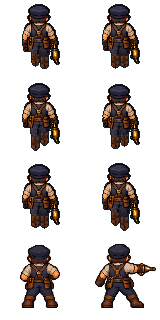
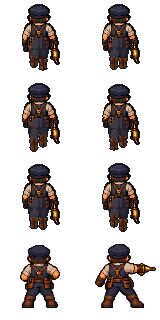
Register Orrin's legs beneath the native waist in every view

diff --git a/src/art/orrin-actor.ts b/src/art/orrin-actor.ts
@@ -6,9 +6,21 @@ import { armToGrip, referenceRig, type ReferencePose, type WeaponPose } from './
 import { ORRIN_PROPORTIONS, type RigProportions } from './rig-proportions';
 import { REFERENCE_FRAMES } from './walk-cycle';
 
+// Native waist registration, in the actor's anatomical coordinates.
+const LOWER_BODY_ROOT={x:-1.5,y:-4};
+
 /** Orrin carries his native downward-pointing tool, with only a small gait swing. */
 export function orrinPose(phase:number,config:Readonly<RigProportions>=ORRIN_PROPORTIONS):ReferencePose {
   const pose=referenceRig(phase,'lance',config);
+  // The native overalls hang behind the chest and slightly toward anatomical
+  // left. Move the skeleton, not just its painted silhouette, so contacts and
+  // workshop joint/floor guides retain the same registration.
+  for(const side of ['left','right'] as const){
+    const leg=pose[side];
+    for(const point of [leg.hip,leg.knee,leg.ankle,leg.foot.origin,leg.foot.heel,leg.foot.toe]){
+      point.x+=LOWER_BODY_ROOT.x;point.y+=LOWER_BODY_ROOT.y;
+    }
+  }
   const shoulder=pose.arms.right.shoulder,grip={...pose.arms.right.grip,z:pose.arms.right.grip.z-3};
   pose.arms.right=armToGrip(shoulder,grip,config);pose.weapon!.grip=pose.arms.right.grip;
   pose.weapon!.pitch=2*Math.sin(pose.phase*2*Math.PI)*Math.PI/180;
@@ -94,12 +106,41 @@ function arms(pose:ReferencePose,source:PixelTexture,direction:ActorDirection):S
 }
 
 /** Overalls fill the volume behind moving sleeves and join the continuous seat. */
-function body(pose:ReferencePose,texture:PixelTexture,direction:ActorDirection):SpriteLayer {
+function body(pose:ReferencePose,texture:PixelTexture,trousers:PixelTexture,direction:ActorDirection):SpriteLayer {
   const rings=[[3,8.5,4.5],[7,10,5.6],[13,10.1,5.4],[17,8.8,4.5]] as const;
-  return surface('torso',rings.map(([z,width,depth],row)=>Array.from({length:ROUND_SIDES},(_,i)=>{
+  const layer=surface('torso',rings.map(([z,width,depth],row)=>Array.from({length:ROUND_SIDES},(_,i)=>{
     const angle=i/ROUND_SIDES*Math.PI*2,c=Math.cos(angle),s=Math.sin(angle);
-    return {point:{x:c*width,y:s*depth,z:pose.hipHeight+z},u:(acrossView(direction,c,s)+1)/2*texture.width,v:(1-row/(rings.length-1))*texture.height};
+    return {point:{x:c*width+LOWER_BODY_ROOT.x*Math.max(0,1-(z-3)/14),y:s*depth+LOWER_BODY_ROOT.y*Math.max(0,1-(z-3)/14),z:pose.hipHeight+z},u:(acrossView(direction,c,s)+1)/2*texture.width,v:(1-row/(rings.length-1))*texture.height};
   })),0xffffff,texture);
+  // The lower torso overlaps the seat in the depth buffer. It must use the
+  // same cloth field, rather than stretching the dark bib into a false hole.
+  const cloth=overallFabric({...layer,faces:layer.faces.map(face=>({...face}))},pose,trousers,direction);
+  layer.faces.forEach((face,i)=>{
+    if(face.points.some(index=>layer.vertices[index].z<=pose.hipHeight+7)){
+      face.texture=trousers;face.uv=cloth.faces[i].uv;
+    }
+  });
+  return layer;
+}
+
+/** Match the cloth field to Orrin's own seat, including the narrower profile
+ * depth. The same projected field covers both thighs and their overlapping seat. */
+function overallFabric(layer:SpriteLayer,pose:ReferencePose,texture:PixelTexture,direction:ActorDirection):SpriteLayer {
+  const centre=project({x:LOWER_BODY_ROOT.x,y:LOWER_BODY_ROOT.y,z:pose.hipHeight},direction);
+  const profile=direction==='left'||direction==='right';
+  const width=profile?12*pose.proportions.legWidth/1.15:2*(pose.proportions.hipHalfWidth+4.5*pose.proportions.legWidth);
+  const top=centre.y-5,height=pose.proportions.legLength+6;
+  for(const face of layer.faces)face.uv=face.points.map(i=>{
+    const p=project(layer.vertices[i],direction);
+    return {u:(p.x-centre.x+width/2)/width*texture.width,v:(p.y-top)/height*texture.height};
+  });
+  return layer;
+}
+
+function overallSeat(pose:ReferencePose,texture:PixelTexture,direction:ActorDirection):SpriteLayer {
+  const layer=pelvis(pose,texture,direction);
+  for(const p of layer.vertices){p.x+=LOWER_BODY_ROOT.x;p.y+=LOWER_BODY_ROOT.y;}
+  return overallFabric(layer,pose,texture,direction);
 }
 
 /** One native-scale leather field spans the calf and shoe. Projected UVs keep
@@ -152,16 +193,23 @@ export function orrinLayers(pose:ReferencePose,direction:ActorDirection,textures
       ||direction==='left'&&y>=39&&y<46&&x<36
       ||direction==='left'&&y>=46&&x<35
       ||direction==='right'&&y>=42&&x>=47;
-    if(oldArm)torso.pixels[at+3]=0;
+    const [r,g,b]=source.pixels.subarray(at,at+3);
+    // The idle's trouser/crotch pixels must not sit above a second moving seat.
+    // Keep the leather belt and pouches while removing the old navy lower body.
+    const oldTrousers=y>=43&&b>r*.85&&b>g;
+    if(oldArm||oldTrousers)torso.pixels[at+3]=0;
   }
-  const trousers=patch(source,33,43,15,14,(r,g,b)=>r<g*1.4&&b>r*.85);
+  const trouserRegions:Record<ActorDirection,readonly[number,number,number,number]>={
+    front:[33,43,18,14],left:[34,48,16,9],right:[28,46,13,12],back:[30,43,17,13],
+  };
+  const trousers=patch(source,...trouserRegions[direction],(r,g,b)=>r<g*1.4&&b>r*.85&&g>20);
   const bootRegions:Record<ActorDirection,readonly[number,number,number,number]>={front:[41,56,7,11],left:[42,56,8,11],right:[34,56,8,11],back:[35,57,8,10]};
   const boot=patch(source,...bootRegions[direction],(r,g,b)=>r>g*1.15&&g>b*1.1&&r>18);
   const bib=patch(source,35,30,10,10,(r,g,b)=>r<g*1.4&&b>r*.85);
-  const layers:SpriteLayer[]=[body(pose,bib,direction),pelvis(pose,trousers,direction)];
+  const layers:SpriteLayer[]=[body(pose,bib,trousers,direction),overallSeat(pose,trousers,direction)];
   for(const side of ['left','right'] as const){
     const leg=pose[side],{legWidth}=pose.proportions;
-    layers.push(trouserLeg(side,pose,trousers,direction),
+    layers.push(overallFabric(trouserLeg(side,pose,trousers,direction),pose,trousers,direction),
       bootFabric(limb(`${side}-shin`,leg.knee,leg.ankle,[3.2,2.8],[2.8,2.4],boot,direction,legWidth),pose,side,boot,direction),
       bootFabric(shoe(side,leg.foot,boot,direction,pose.proportions.footScale,legWidth*1.22),pose,side,boot,direction));
   }

diff --git a/tests/e2e/animation-workshop.spec.ts b/tests/e2e/animation-workshop.spec.ts
@@ -2,6 +2,8 @@ import { NELL_PROPORTIONS, ORRIN_PROPORTIONS } from '../../src/art/rig-proportio
 // Browser plugin not available; exercise the native review through repository Playwright.
 import { expect, test, type Page } from '@playwright/test';
 import { readFile } from 'node:fs/promises';
+import { project } from '../../src/art/actor-space';
+import { LEG_COLORS } from '../../src/art/walk-cycle';
 import { renderLayers } from '../../src/art/layered-sprite';
 import { referenceRigFrame, type ReferenceWeapon } from '../../src/art/reference-rig';
 import { referenceLayers, REFERENCE_ARM_LAYERS, REFERENCE_LAYERS } from '../../src/dev/reference-actor';
@@ -119,6 +121,14 @@ for(const [device,viewport,dpr] of [['desktop',{width:1280,height:800},1.25],['p
       expect(orrinData.skin).toBe('orrin');expect(orrinData.cycleDistance).toBe(ORRIN_PROPORTIONS.strideDistance);expect(orrinData.weapon).toBe('lance');
       expect(orrinData.frames[0].pose.weapon.grip).toEqual(orrinData.frames[0].pose.arms.right.grip);
       await review.getByRole('button',{name:'Solo Right Weapon',exact:true}).click();
+      const contacts=(['left','right'] as const).map(side=>{
+        const foot=orrinData.frames[0].pose[side].foot,point=project(foot.contact==='heel'?foot.heel:foot.toe,'back'),rgb=LEG_COLORS[side];
+        return {x:Math.round(point.x)+120,y:Math.round(point.y)+22,rgb:[rgb>>16&255,rgb>>8&255,rgb&255]};
+      });
+      await expect.poll(()=>page.locator('#reference-floor').evaluate((element,contacts)=>{
+        const ctx=(element as HTMLCanvasElement).getContext('2d')!;
+        return contacts.every(({x,y,rgb})=>{const actual=ctx.getImageData(x,y,1,1).data;return rgb.every((value,i)=>value===actual[i]);});
+      },contacts)).toBe(true);
       const lanceEvent=page.waitForEvent('download');await review.getByRole('button',{name:'Export six frames PNG',exact:true}).click();expect((await lanceEvent).suggestedFilename()).toBe('orrin-back-right-weapon-walk.png');
       await review.getByRole('button',{name:'Show all layers',exact:true}).click();
       await review.getByRole('group',{name:'Reference facing',exact:true}).getByRole('button',{name:'Right',exact:true}).click();await nativeHero(page,'orrin',0,'right');

diff --git a/src/dev/animation-workshop.ts b/src/dev/animation-workshop.ts
@@ -150,12 +150,13 @@ export class AnimationWorkshop {
     const tick=this.currentTick(),frame=frameOf(tick),pose=this.pose(frame),stride=this.proportions.strideDistance,travel=tick/REFERENCE_FRAMES*stride;
     this.paintedTick=tick;const detail=this.host.querySelector<HTMLCanvasElement>('#reference-detail')!.getContext('2d')!,floor=this.host.querySelector<HTMLCanvasElement>('#reference-floor')!.getContext('2d')!,strip=this.host.querySelector<HTMLCanvasElement>('#reference-strip')!.getContext('2d')!;
     for(const ctx of [detail,floor,strip])this.backdrop(ctx);
+    const root={x:(pose.left.hip.x+pose.right.hip.x)/2,y:(pose.left.hip.y+pose.right.hip.y)/2};
     // Draw the floor in world coordinates relative to a camera following the root.
     for(let n=Math.floor(travel/(stride/2))-6;n<=Math.floor(travel/(stride/2))+6;n++){
-      const y=n*stride/2+stride*.3-travel,left=n%2===0,c=left?LEG_COLORS.left:LEG_COLORS.right;
-      const a=project({x:-28,y,z:0},this.direction),b=project({x:28,y,z:0},this.direction);
+      const y=root.y+n*stride/2+stride*.3-travel,left=n%2===0,c=left?LEG_COLORS.left:LEG_COLORS.right;
+      const a=project({x:root.x-28,y,z:0},this.direction),b=project({x:root.x+28,y,z:0},this.direction);
       line(floor,a.x+120,a.y+22,b.x+120,b.y+22,'#35535a');
-      const heel=project({x:(left?-1:1)*this.proportions.hipHalfWidth,y:y+FOOT_HEEL*this.proportions.footScale,z:0},this.direction),toe=project({x:(left?-1:1)*this.proportions.hipHalfWidth,y:y+FOOT_TOE*this.proportions.footScale,z:0},this.direction);
+      const heel=project({x:root.x+(left?-1:1)*this.proportions.hipHalfWidth,y:y+FOOT_HEEL*this.proportions.footScale,z:0},this.direction),toe=project({x:root.x+(left?-1:1)*this.proportions.hipHalfWidth,y:y+FOOT_TOE*this.proportions.footScale,z:0},this.direction);
       line(floor,heel.x+120,heel.y+22,toe.x+120,toe.y+22,color(c));
       for(const mark of [heel,toe]){floor.fillStyle=color(c);floor.fillRect(Math.round(mark.x)+119,Math.round(mark.y)+22,3,1);}
     }

diff --git a/AGENTS.md b/AGENTS.md
@@ -36,7 +36,7 @@ Normal CI runs rule/content tests, the production build and the small `@ci` brow
 
 All five playable characters have front/left/right/back actors in `public/art/`, registered by `src/content/actors.ts`. Keep native 80 x 80 dimensions and the shared ground anchor at (40, 68). Use the same character identity and costume for their 128 x 128 portraits. The Vite-only Sprites workshop (`?dev=sprites`) reviews this art without writing saves or builds; keep review code out of production. Artwork prompt briefs and export details live in `assets/characters/prompts.md`.
 
-Nell and Orrin have six-frame walk cycles and two attack poses in `public/art/animation/`, with eight native 80 x 80 frames per small directional page. Keep their idle actors and portraits intact. Nell's walk and attacks are baked from the accepted layered reference, using native face/costume skins and 9-pixel leg bones; run `node scripts/export-nell-animation.mjs` to reproduce its four small pages and canonical 80 x 80 skins. Animation offers a Nell skin with the same editable layers; the model/textures stay dev-only. Keep its prepared RGB pixels unchanged and binary alpha consistent between browser and exporter. Orrin's walk is baked from his own stocky skinned rig with 9.5-pixel leg bones; `node scripts/export-orrin-animation.mjs` regenerates it while preserving his existing attack row. Both characters share the dev-only native material/shape helpers in `src/art/actor-skin.ts`; keep Nell's approved pixels unchanged when adjusting Orrin. Orrin's sleeves, bare forearms and gloves use separately registered native cutouts for both arms in every view; remove the same source spans from the idle torso, keep the relaxed binding at resting hip height, and do not substitute a duplicate near arm for an occluded far arm. His calf and shoe share a continuous leather field so brass highlights do not repeat around the mesh. Nell's attack wind-up/contact use the same costume geometry, two planted flat feet, rigid arms and registered right-hand lantern; regenerate all eight frames without loading the previous page. Preserve the accepted six walk poses when changing attacks. The shared frame player serves exploration, followers, cutscenes and tactical paths; keep gait tied to distance traveled and preserve it through cells and turns. Nell advances 24 pixels per cycle; Orrin advances 28. Never mirror profiles or rescale a frame at runtime. The lantern and steam lance stay in the anatomical right hand throughout all six steps: viewer left in front, viewer right in back, far arm in left profile and near arm in right profile. Attacks show wind-up/contact/recovery, with damage visuals and player sounds at contact. Battle restarts and forced outcomes must cancel old presentation callbacks. Capture retaliation before round-end flag resets. Sprites offers all six walk phases, playback, pause and frame stepping; review remains dev-only. See `assets/characters/animation.md` for the source manifest and authoring recipe.
+Nell and Orrin have six-frame walk cycles and two attack poses in `public/art/animation/`, with eight native 80 x 80 frames per small directional page. Keep their idle actors and portraits intact. Nell's walk and attacks are baked from the accepted layered reference, using native face/costume skins and 9-pixel leg bones; run `node scripts/export-nell-animation.mjs` to reproduce its four small pages and canonical 80 x 80 skins. Animation offers a Nell skin with the same editable layers; the model/textures stay dev-only. Keep its prepared RGB pixels unchanged and binary alpha consistent between browser and exporter. Orrin's walk is baked from his own stocky skinned rig with 9.5-pixel leg bones; `node scripts/export-orrin-animation.mjs` regenerates it while preserving his existing attack row. Both characters share the dev-only native material/shape helpers in `src/art/actor-skin.ts`; keep Nell's approved pixels unchanged when adjusting Orrin. Orrin's sleeves, bare forearms and gloves use separately registered native cutouts for both arms in every view; remove the same source spans from the idle torso, keep the relaxed binding at resting hip height, and do not substitute a duplicate near arm for an occluded far arm. His calf and shoe share a continuous leather field so brass highlights do not repeat around the mesh. Register Orrin's lower skeleton at anatomical (-1.5, -4); translate the hips, knees, ankles and foot landmarks together and derive workshop floor marks from the actual hip centre. Lower torso, seat and thighs share per-view trouser fields. Remove old idle trouser/crotch pixels from the torso and keep the dark bib material above the belt. Nell's attack wind-up/contact use the same costume geometry, two planted flat feet, rigid arms and registered right-hand lantern; regenerate all eight frames without loading the previous page. Preserve the accepted six walk poses when changing attacks. The shared frame player serves exploration, followers, cutscenes and tactical paths; keep gait tied to distance traveled and preserve it through cells and turns. Nell advances 24 pixels per cycle; Orrin advances 28. Never mirror profiles or rescale a frame at runtime. The lantern and steam lance stay in the anatomical right hand throughout all six steps: viewer left in front, viewer right in back, far arm in left profile and near arm in right profile. Attacks show wind-up/contact/recovery, with damage visuals and player sounds at contact. Battle restarts and forced outcomes must cancel old presentation callbacks. Capture retaliation before round-end flag resets. Sprites offers all six walk phases, playback, pause and frame stepping; review remains dev-only. See `assets/characters/animation.md` for the source manifest and authoring recipe.
 
 Chapter One uses real 24 x 24 tiles, with editable Tiled JSON under `src/content/chapter-one/maps/` and small shared native tile pages. Read `docs/tile-maps.md` before changing its layouts. Tile properties drive collision; map object layers own interactions, named arrivals and initial scene casts. Use story-flag layers for scenery changes. Keep the four tactical floors clear of scenery and preserve all map/interaction/checkpoint IDs. Each map's `safeArrival` supports restoring valid current-format saves whose cells a layout edit covers or crops: use the nearest connected floor and preserve all progress/resources. Do not restore its removed wholesale backgrounds. Export large authoring sheets into real small image tiles/pages before any upload or commit: Chapter One pages are lossless PNG/WebP at most 192 × 192 pixels and 128 KB each; other changed raster images must be at most 128 KB. Never upload a large source sheet or base64 fragments of it. Run `npm run check:art-upload` after staging and before publishing. Later chapters retain their current native scenery until converted.
 

diff --git a/assets/characters/orrin-rig.md b/assets/characters/orrin-rig.md
@@ -1,12 +1,12 @@
 # Orrin's skinned walk
 
-`src/art/orrin-actor.ts` uses the shared six-pose gait with `ORRIN_PROPORTIONS` in `src/art/rig-proportions.ts`. Two rigid 9.5-pixel leg bones, a 19.5-pixel hip baseline, 0.8-pixel rise and 28-pixel stride produce a compact stocky walk. Feet use 75% geometric size, roll around planted heel/toe contacts and retain their anatomical sides. The runtime stride in `src/content/actor-motion.ts` must match the authoring preset.
+`src/art/orrin-actor.ts` uses the shared six-pose gait with `ORRIN_PROPORTIONS` in `src/art/rig-proportions.ts`. Two rigid 9.5-pixel leg bones, a 19.5-pixel hip baseline, 0.8-pixel rise and 28-pixel stride produce a compact stocky walk. Feet use 75% geometric size, roll around planted heel/toe contacts and retain their anatomical sides. The runtime stride in `src/content/actor-motion.ts` must match the authoring preset. The lower-body root is registered at anatomical x = -1.5, y = -4: the front waist centre projects to x = 41.5 and the back waist centre to x = 38.5, matching the native overalls rather than the template's central axis. Hips, knees, ankles and both foot landmarks move together; the native face and arms retain their accepted placement. The torso volume blends into this root at the waist. Workshop floor marks derive their origin from the actual hips, so guides and pose exports agree with the artwork.
 
 Shoulders sit 21 pixels above the hips and 11.5 pixels either side of centre. The arms have rigid 8/7-pixel bones. Orrin's right grip sits three pixels below the reference lance carry target, solved through the shared arm IK. Native directional steam-lance cutouts attach at the anatomical right grip and swing only two degrees from their source orientation. Front: viewer left. Back: viewer right. Left profile: far hand. Right profile: near hand. Neither profile is mirrored.
 
 The four idle actors supply canonical 80 x 80 skins in `assets/characters/orrin-skin/`, retaining source RGB and thresholding alpha consistently at 128. The face, cap, goggles and beard keep their native pixels and resting registration. The static torso preserves the collar, yoke, suspenders, belt and rear tool bags. `ARM_SKINS` registers separate shoulder/elbow/wrist/grip landmarks and alpha spans for both arms in every direction. The native cream sleeves, rolled cuffs, bare forearms and work gloves articulate as textured cutouts, retaining their original shading and cross-section. The far profile arms use their own small source regions behind the bib, rather than a duplicate of the large near sleeve/glove. Those same spans remove every idle-arm fragment from the torso. Broad overalls fill the volume behind the moving arms. The relaxed arm binding is lowered to the resting hip baseline, so shoulders, belt and head share exactly the same body rise.
 
-Orrin and Nell share the pure native skin/geometry helpers in `src/art/actor-skin.ts`. Both have continuous waist-to-thigh fabric and shaped boots, rather than the reference mannequin's boxes. Orrin's wider hip spacing, fuller leg width and broad shoulders establish his own build. His boots have a wider toe box and share one projected leather field across calf and shoe: brass highlights do not repeat around each mesh face. Arm thickness still adjusts the native cutouts perpendicular to each bone. The right-hand lance uses the same resting bind and rotates around its registered artwork grip; the back cutout excludes the neighbouring belt pouch. Changing Orrin's character model must not alter Nell's accepted walk or attacks.
+Orrin and Nell share the pure native skin/geometry helpers in `src/art/actor-skin.ts`. Both have continuous waist-to-thigh fabric and shaped boots, rather than the reference mannequin's boxes. Orrin's wider hip spacing, fuller leg width and broad shoulders establish his own build. Each view has its own trouser crop and projected field width. The lower torso, seat and thighs share that field; remove old idle trouser/crotch pixels from the static torso and do not stretch the dark bib material below the belt. Material sampling excludes the source's near-black gap between its idle legs, which would otherwise paint a false hole in the moving seat. His boots have a wider toe box and share one projected leather field across calf and shoe: brass highlights do not repeat around each mesh face. Arm thickness still adjusts the native cutouts perpendicular to each bone. The right-hand lance uses the same resting bind and rotates around its registered artwork grip; the back cutout excludes the neighbouring belt pouch. Changing Orrin's character model must not alter Nell's accepted walk or attacks.
 
 Run `node scripts/export-orrin-animation.mjs` to regenerate the four 160 x 320 pages. The shared authoring pipeline writes six new walk frames and preserves Orrin's two existing attack frames byte-for-byte. No source sheets are uploaded. Repeated exports must produce identical bytes. Idle actors and portraits remain untouched. The old generated-walk importer and guides have been retired.
 
